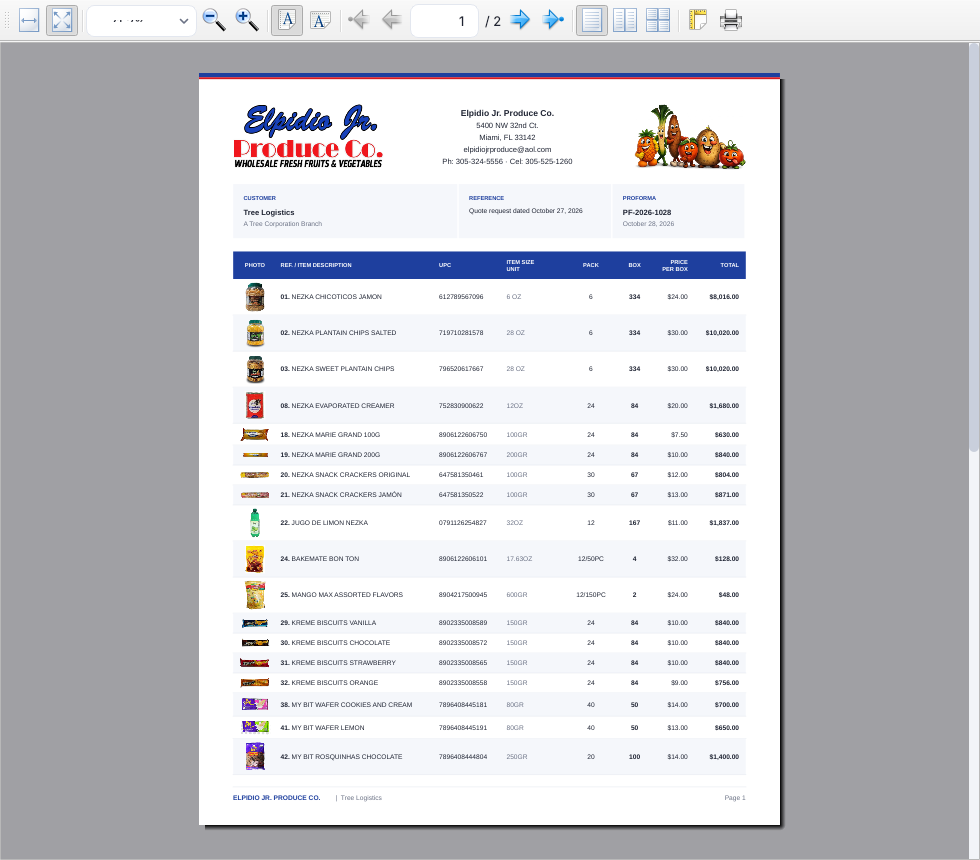
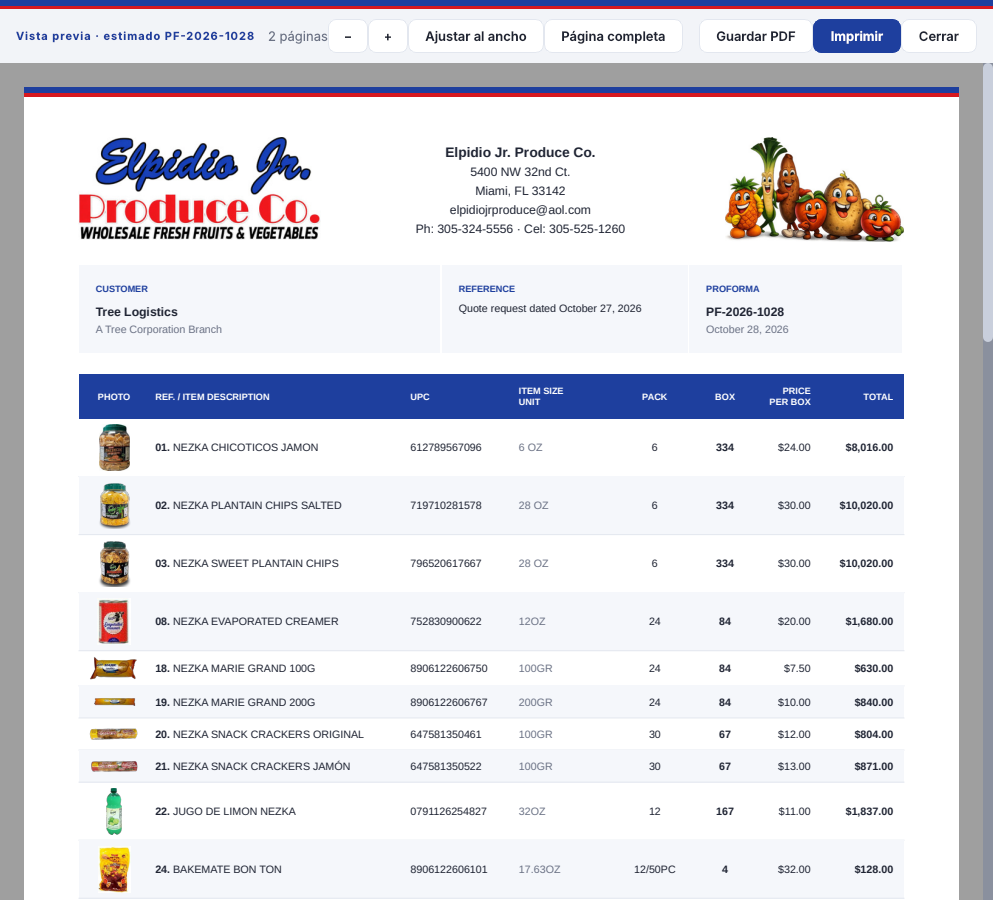
Show the estimate preview as the PDF inside the app
"Vista previa" used Qt's print preview. It now renders the same PDF as
"Guardar PDF" into memory and shows it in a viewer dialog (QtPdf) with
zoom, fit to width or page, and buttons to print or save. Nothing is
written to disk.

Claude-Session: https://claude.ai/code/session_01KVijkRtvgVdpagmBSg3sms

diff --git a/nezka_invoice/ui/pdf_preview.py b/nezka_invoice/ui/pdf_preview.py
@@ -1,0 +1,91 @@
+from __future__ import annotations
+
+from typing import Callable
+
+from PySide6.QtCore import QBuffer, QByteArray, QIODevice, QMargins
+from PySide6.QtPdf import QPdfDocument
+from PySide6.QtPdfWidgets import QPdfView
+from PySide6.QtWidgets import QDialog, QHBoxLayout, QLabel, QPushButton, QVBoxLayout, QWidget
+
+from nezka_invoice.ui.theme import brand_stripe
+
+ZOOM_STEP = 1.2
+
+
+class PdfPreviewDialog(QDialog):
+    """Shows a PDF held in memory like a PDF viewer: pages one under another, with zoom.
+
+    Nothing is written to disk; the print and save buttons hand off to the caller.
+    """
+
+    def __init__(
+        self,
+        title: str,
+        pdf: bytes,
+        on_print: Callable[[], None] | None = None,
+        on_save: Callable[[], None] | None = None,
+        parent: QWidget | None = None,
+    ):
+        super().__init__(parent)
+        self.setWindowTitle(title)
+        self.resize(960, 900)
+
+        # QPdfDocument reads from the buffer for as long as it is shown, so both live on self.
+        self.data = QByteArray(pdf)
+        self.buffer = QBuffer(self.data, self)
+        self.buffer.open(QIODevice.ReadOnly)
+        self.document = QPdfDocument(self)
+        self.document.load(self.buffer)
+
+        self.view = QPdfView(self)
+        self.view.setDocument(self.document)
+        self.view.setPageMode(QPdfView.PageMode.MultiPage)
+        self.view.setZoomMode(QPdfView.ZoomMode.FitToWidth)
+        self.view.setPageSpacing(18)
+        self.view.setDocumentMargins(QMargins(24, 24, 24, 24))
+        self.view.setStyleSheet("QPdfView { background: #8a909e; border: none; }")
+
+        pages = self.document.pageCount()
+        self.page_label = QLabel(f"{pages} página{'' if pages == 1 else 's'}", objectName="PageSubtitle")
+        zoom_out = QPushButton("−")
+        zoom_in = QPushButton("+")
+        fit_width = QPushButton("Ajustar al ancho")
+        whole_page = QPushButton("Página completa")
+        for button in (zoom_out, zoom_in):
+            button.setFixedWidth(40)
+        zoom_out.clicked.connect(lambda: self._zoom(1 / ZOOM_STEP))
+        zoom_in.clicked.connect(lambda: self._zoom(ZOOM_STEP))
+        fit_width.clicked.connect(lambda: self.view.setZoomMode(QPdfView.ZoomMode.FitToWidth))
+        whole_page.clicked.connect(lambda: self.view.setZoomMode(QPdfView.ZoomMode.FitInView))
+
+        toolbar = QHBoxLayout()
+        toolbar.setContentsMargins(16, 10, 16, 10)
+        toolbar.addWidget(QLabel(title, objectName="SectionLabel"))
+        toolbar.addSpacing(12)
+        toolbar.addWidget(self.page_label)
+        toolbar.addStretch(1)
+        for button in (zoom_out, zoom_in, fit_width, whole_page):
+            toolbar.addWidget(button)
+        toolbar.addSpacing(16)
+        if on_save:
+            save_button = QPushButton("Guardar PDF")
+            save_button.clicked.connect(on_save)
+            toolbar.addWidget(save_button)
+        if on_print:
+            print_button = QPushButton("Imprimir", objectName="Primary")
+            print_button.clicked.connect(on_print)
+            toolbar.addWidget(print_button)
+        close_button = QPushButton("Cerrar")
+        close_button.clicked.connect(self.accept)
+        toolbar.addWidget(close_button)
+
+        layout = QVBoxLayout(self)
+        layout.setContentsMargins(0, 0, 0, 0)
+        layout.setSpacing(0)
+        layout.addWidget(brand_stripe())
+        layout.addLayout(toolbar)
+        layout.addWidget(self.view, 1)
+
+    def _zoom(self, factor: float) -> None:
+        self.view.setZoomMode(QPdfView.ZoomMode.Custom)
+        self.view.setZoomFactor(max(0.25, min(4.0, self.view.zoomFactor() * factor)))

diff --git a/nezka_invoice/proforma.py b/nezka_invoice/proforma.py
@@ -10,7 +10,7 @@ from dataclasses import dataclass
 from datetime import date
 from pathlib import Path
 
-from PySide6.QtCore import QMarginsF, QPointF, QRectF, Qt
+from PySide6.QtCore import QBuffer, QByteArray, QIODevice, QMarginsF, QPointF, QRectF, Qt
 from PySide6.QtGui import (
     QColor,
     QFont,
@@ -111,6 +111,36 @@ def render_estimates(device: QPagedPaintDevice, renderers: list["ProformaRendere
     return pages
 
 
+def _pdf_writer(target, renderers: list["ProformaRenderer"]) -> QPdfWriter:
+    writer = QPdfWriter(target)
+    if len(renderers) == 1:
+        estimate = renderers[0].estimate
+        writer.setTitle(f"{estimate.number} – {estimate.client_name}".strip(" –"))
+    else:
+        writer.setTitle("Estimados")
+    writer.setCreator(COMPANY_NAME)
+    writer.setResolution(600)
+    writer.setPageLayout(QPageLayout(QPageSize(QPageSize.Letter), QPageLayout.Portrait, QMarginsF(0, 0, 0, 0)))
+    return writer
+
+
+def write_pdf(path: str | Path, renderers: list["ProformaRenderer"]) -> int:
+    """Write the proformas to a PDF file and return the page count."""
+    return render_estimates(_pdf_writer(str(path), renderers), renderers)
+
+
+def pdf_bytes(renderers: list["ProformaRenderer"]) -> bytes:
+    """The proformas as a PDF in memory, for showing them without saving a file."""
+    data = QByteArray()
+    buffer = QBuffer(data)
+    buffer.open(QIODevice.WriteOnly)
+    writer = _pdf_writer(buffer, renderers)
+    render_estimates(writer, renderers)
+    del writer  # flushes the document into the buffer
+    buffer.close()
+    return bytes(data.data())
+
+
 class ProformaRenderer:
     """Lays out one estimate over as many pages as it needs."""
 
@@ -138,14 +168,7 @@ class ProformaRenderer:
             self.painter = None
 
     def write_pdf(self, path: str | Path) -> int:
-        writer = QPdfWriter(str(path))
-        writer.setTitle(f"{self.estimate.number} – {self.estimate.client_name}".strip(" –"))
-        writer.setCreator(COMPANY_NAME)
-        writer.setResolution(600)
-        writer.setPageLayout(
-            QPageLayout(QPageSize(QPageSize.Letter), QPageLayout.Portrait, QMarginsF(0, 0, 0, 0))
-        )
-        return self.render(writer)
+        return write_pdf(path, [self])
 
     # Layout
     def _draw_pages(self, device: QPagedPaintDevice) -> int:

diff --git a/nezka_invoice/ui/printing.py b/nezka_invoice/ui/printing.py
@@ -4,12 +4,13 @@ from pathlib import Path
 
 from PySide6.QtCore import QStandardPaths, QUrl
 from PySide6.QtGui import QDesktopServices, QPageLayout, QPageSize
-from PySide6.QtPrintSupport import QPrintDialog, QPrinter, QPrintPreviewDialog
+from PySide6.QtPrintSupport import QPrintDialog, QPrinter
 from PySide6.QtWidgets import QDialog, QFileDialog, QMessageBox, QWidget
 
 from nezka_invoice.db import ClientRepository, ProductRepository
 from nezka_invoice.models import Estimate
-from nezka_invoice.proforma import ProformaRenderer, default_file_name, render_estimates
+from nezka_invoice.proforma import ProformaRenderer, default_file_name, pdf_bytes, render_estimates
+from nezka_invoice.ui.pdf_preview import PdfPreviewDialog
 
 
 class EstimatePrinting:
@@ -45,14 +46,21 @@ class EstimatePrinting:
         return printer
 
     def preview(self, estimates: list[Estimate]) -> None:
-        """Print preview; its toolbar has the button to send it to a printer."""
+        """The proforma as it will look in the PDF, shown in the app without saving a file."""
         if not estimates:
             return
-        renderers = [self.renderer(e) for e in estimates]
-        dialog = QPrintPreviewDialog(self._printer(estimates), self.parent)
-        dialog.setWindowTitle(f"Vista previa · {self._title(estimates)}")
-        dialog.resize(980, 860)
-        dialog.paintRequested.connect(lambda printer: render_estimates(printer, renderers))
+        try:
+            pdf = pdf_bytes([self.renderer(e) for e in estimates])
+        except RuntimeError as error:
+            QMessageBox.warning(self.parent, "No se pudo generar la vista previa", str(error))
+            return
+        dialog = PdfPreviewDialog(
+            f"Vista previa · {self._title(estimates)}",
+            pdf,
+            on_print=lambda: self.print(estimates),
+            on_save=lambda: self.save_pdf(estimates),
+            parent=self.parent,
+        )
         dialog.exec()
 
     def print(self, estimates: list[Estimate]) -> None:

diff --git a/tests/test_estimate_ui.py b/tests/test_estimate_ui.py
@@ -72,3 +72,18 @@ def test_list_marks_estimates_with_check_boxes(app, repos):
     model.setData(model.index(0, 0), Qt.Unchecked, Qt.CheckStateRole)
     assert len(page.marked_records()) == 1
     assert page.edit_button.isEnabled()
+
+
+def test_preview_shows_the_pdf_without_saving_a_file(app, repos, tmp_path, monkeypatch):
+    from nezka_invoice.proforma import ProformaRenderer, pdf_bytes
+    from nezka_invoice.ui.pdf_preview import PdfPreviewDialog
+
+    monkeypatch.chdir(tmp_path)
+    estimates, clients, products = repos
+    [estimate] = estimates.list()
+    pdf = pdf_bytes([ProformaRenderer(estimate, clients.get(estimate.client_id))])
+    assert pdf.startswith(b"%PDF")
+    dialog = PdfPreviewDialog("Vista previa", pdf)
+    assert dialog.document.pageCount() == 2
+    assert dialog.page_label.text() == "2 páginas"
+    assert not list(tmp_path.glob("*.pdf"))

diff --git a/nezka_invoice/ui/estimates_page.py b/nezka_invoice/ui/estimates_page.py
@@ -66,7 +66,7 @@ class EstimatesPage(ListPage):
     def selection_buttons(self) -> list[QPushButton]:
         buttons = []
         for text, tip, slot in (
-            ("Vista previa", "Ver cómo queda impreso; desde ahí también se puede imprimir", self.preview_marked),
+            ("Vista previa", "Ver el PDF del estimado sin guardarlo; desde ahí también se puede imprimir", self.preview_marked),
             ("Imprimir", "Elegir impresora e imprimir los estimados marcados (Ctrl+P)", self.print_marked),
             ("Guardar PDF", "Guardar los estimados marcados como PDF para enviarlos al cliente", self.save_pdf_marked),
         ):

diff --git a/README.md b/README.md
@@ -32,7 +32,7 @@ Hecha en Python con [PySide6](https://doc.qt.io/qtforpython-6/) (Qt) para la int
 - Cada estimado tiene número (serie `PF-año-NNNN`, se sugiere el siguiente), cliente, fecha, referencia, estado (Borrador, Enviado, Aceptado, Rechazado) y notas.
 - Los productos se agregan buscándolos en el catálogo; las cajas y el precio por caja se editan en la tabla y los totales se recalculan solos. El estimado guarda una copia de los datos del producto, así que no cambia si luego se edita el catálogo.
 - Un cliente con estimados no se puede eliminar (se puede marcar inactivo).
-- Al **guardar**, el formulario del estimado sigue abierto y se activan **Vista previa**, **Imprimir** (elegir impresora de la computadora) y **Guardar PDF**. Solo funcionan con el estimado guardado: si hay cambios sin guardar se desactivan hasta volver a guardar.
+- Al **guardar**, el formulario del estimado sigue abierto y se activan **Vista previa** (muestra el PDF dentro de la app, con zoom, sin guardar ningún archivo), **Imprimir** (elegir impresora de la computadora) y **Guardar PDF**. Solo funcionan con el estimado guardado: si hay cambios sin guardar se desactivan hasta volver a guardar.
 - En el listado cada estimado tiene una casilla para marcarlo. **Vista previa**, **Imprimir** (`Ctrl+P`) y **Guardar PDF** trabajan con los marcados (o con la fila seleccionada si no hay ninguno); varios se imprimen juntos o se guardan como un PDF por estimado en la carpeta que elijas. **Editar** y **Eliminar** necesitan uno solo.
 - El PDF (por defecto `Proforma_<número>_<cliente>.pdf` en Documentos) tiene el mismo formato de la proforma PF-2026-1028: logo, datos del cliente, referencia, número y fecha, tabla con foto, UPC, tamaño, pack, cajas, precio y total, y el resumen con el TOTAL USD.
 
@@ -40,7 +40,7 @@ Hecha en Python con [PySide6](https://doc.qt.io/qtforpython-6/) (Qt) para la int
 
 ![Estimado](docs/estimado-form.png)
 
-![Vista previa para imprimir](docs/estimado-imprimir.png)
+![Vista previa del PDF](docs/estimado-imprimir.png)
 
 Atajos (en cada pantalla): `Ctrl+N` nuevo cliente o producto, `Ctrl+F` buscar, `Supr` eliminar el seleccionado.
 
